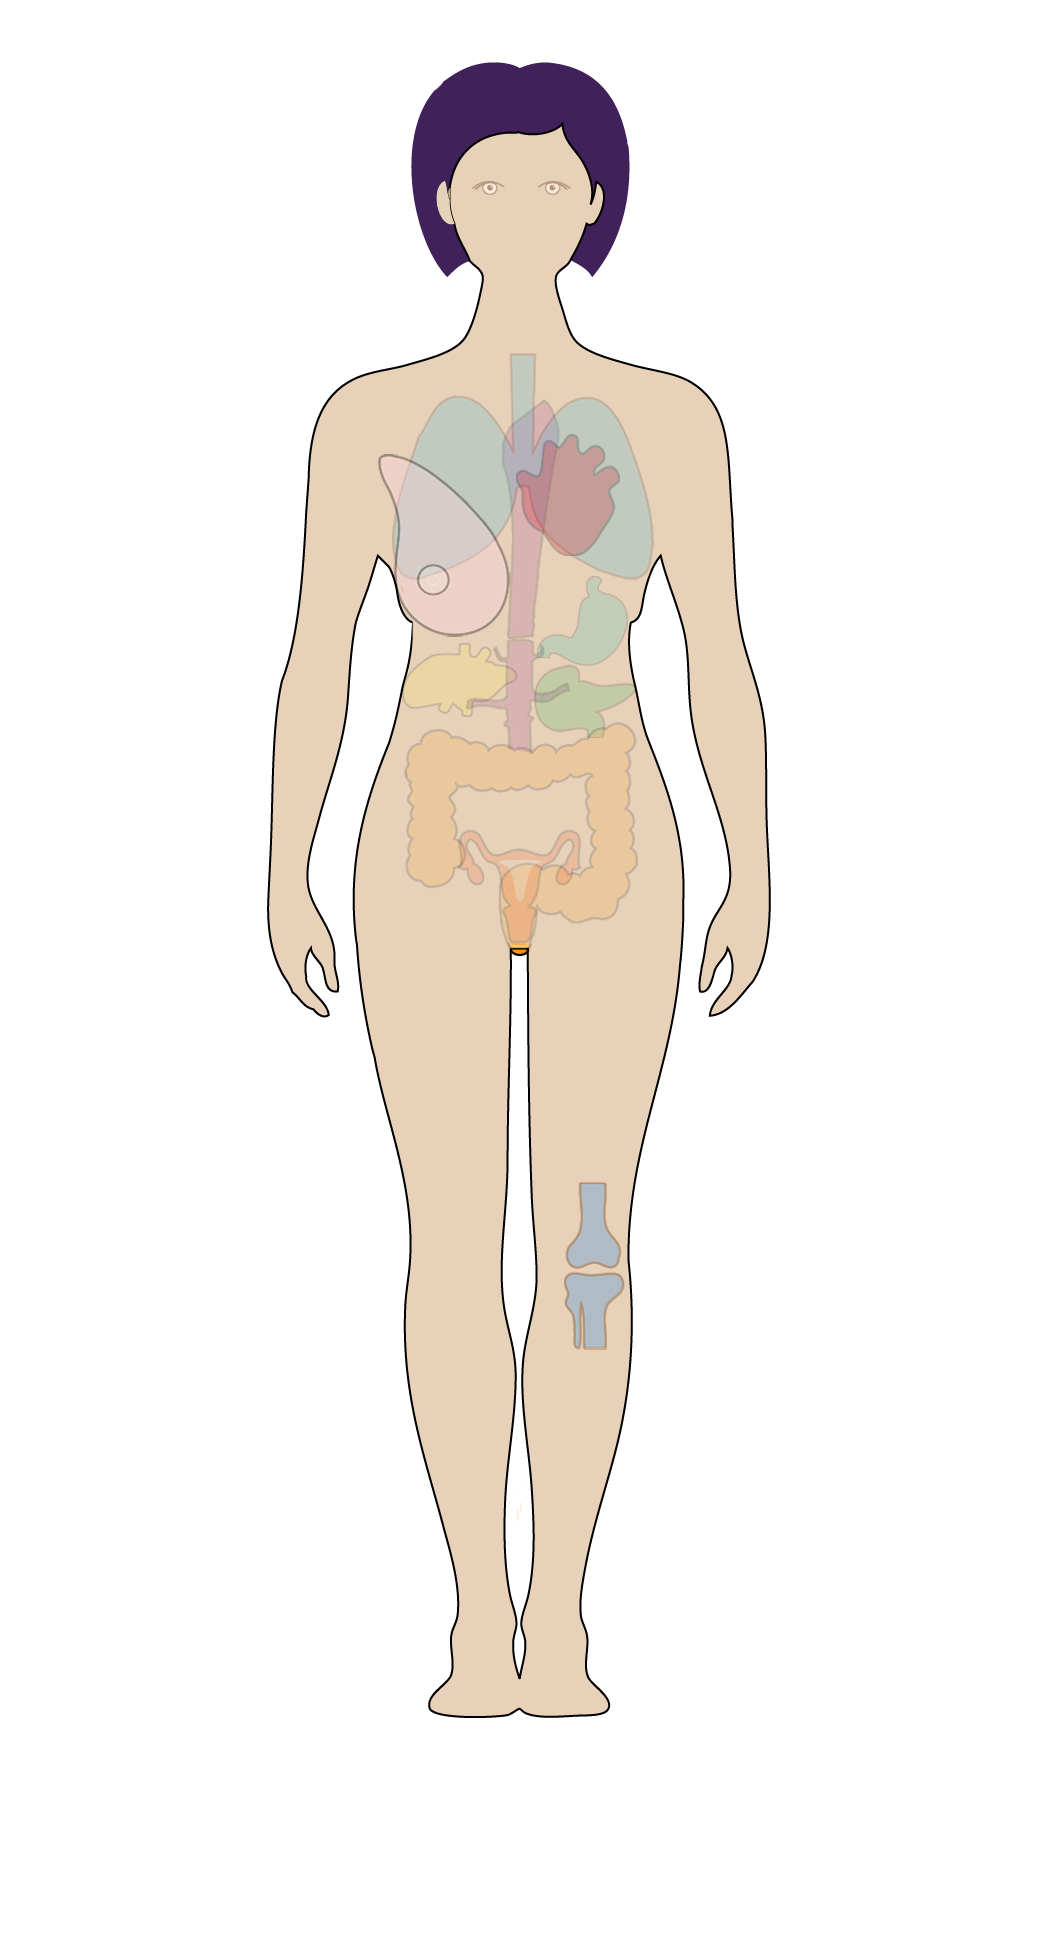
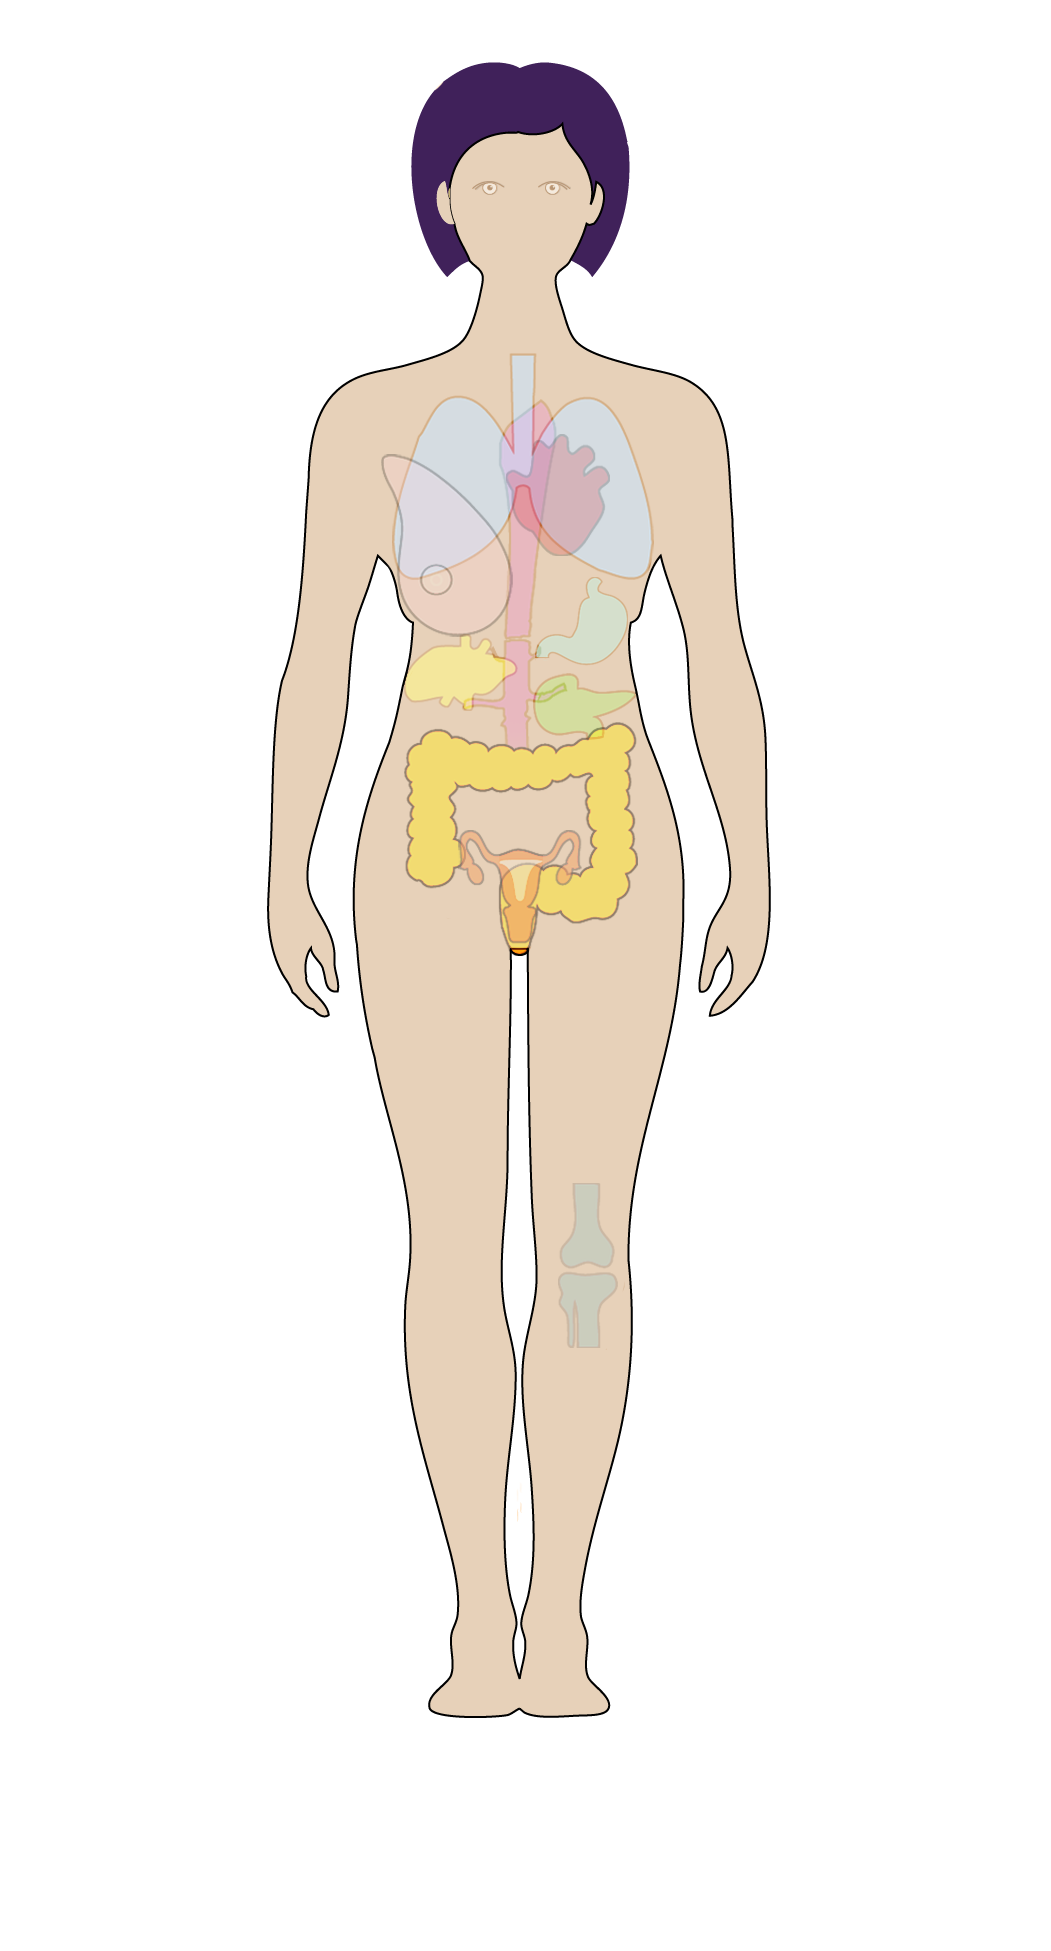
Revert "Revert "Merge branch 'analytics-test' of https://github.com/uoForms/App-CANBeWell into analytics-test""
This reverts commit 2ca18cdda2318e36ff5aa855bffb2684fb3b78a1.

Changed region(s): [[0.3654, 0.1845, 0.6394, 0.4921], [0.5176, 0.5843, 0.6089, 0.7073]]

diff --git a/src/Body/Body.css b/src/Body/Body.css
@@ -51,7 +51,7 @@
 
  .mainRunner .femaleHeart{
      top: 25.5%;
-     left: 55%;
+     left: 54%;
      width: 8%;
      height: 6%;
  }
@@ -64,17 +64,17 @@
  }
 
  .mainRunner .femaleLiver {
-     top: 35%;
-     left: 44%;
+     top: 34.5%;
+     left: 43%;
      width: 9%;
      height: 4%;
  }
 
  .mainRunner .femaleLungs{
-     top: 23%;
+     top: 25%;
      left: 50%;
      width: 23%;
-     height: 7%;
+     height: 8%;
  }
 
  .mainRunner .femalePancreas{
@@ -101,7 +101,7 @@
  .mainRunner .uterus{
      top: 46%;
      left: 49%;
-     width: 7%;
+     width: 5%;
      height: 5%;
  }
 
